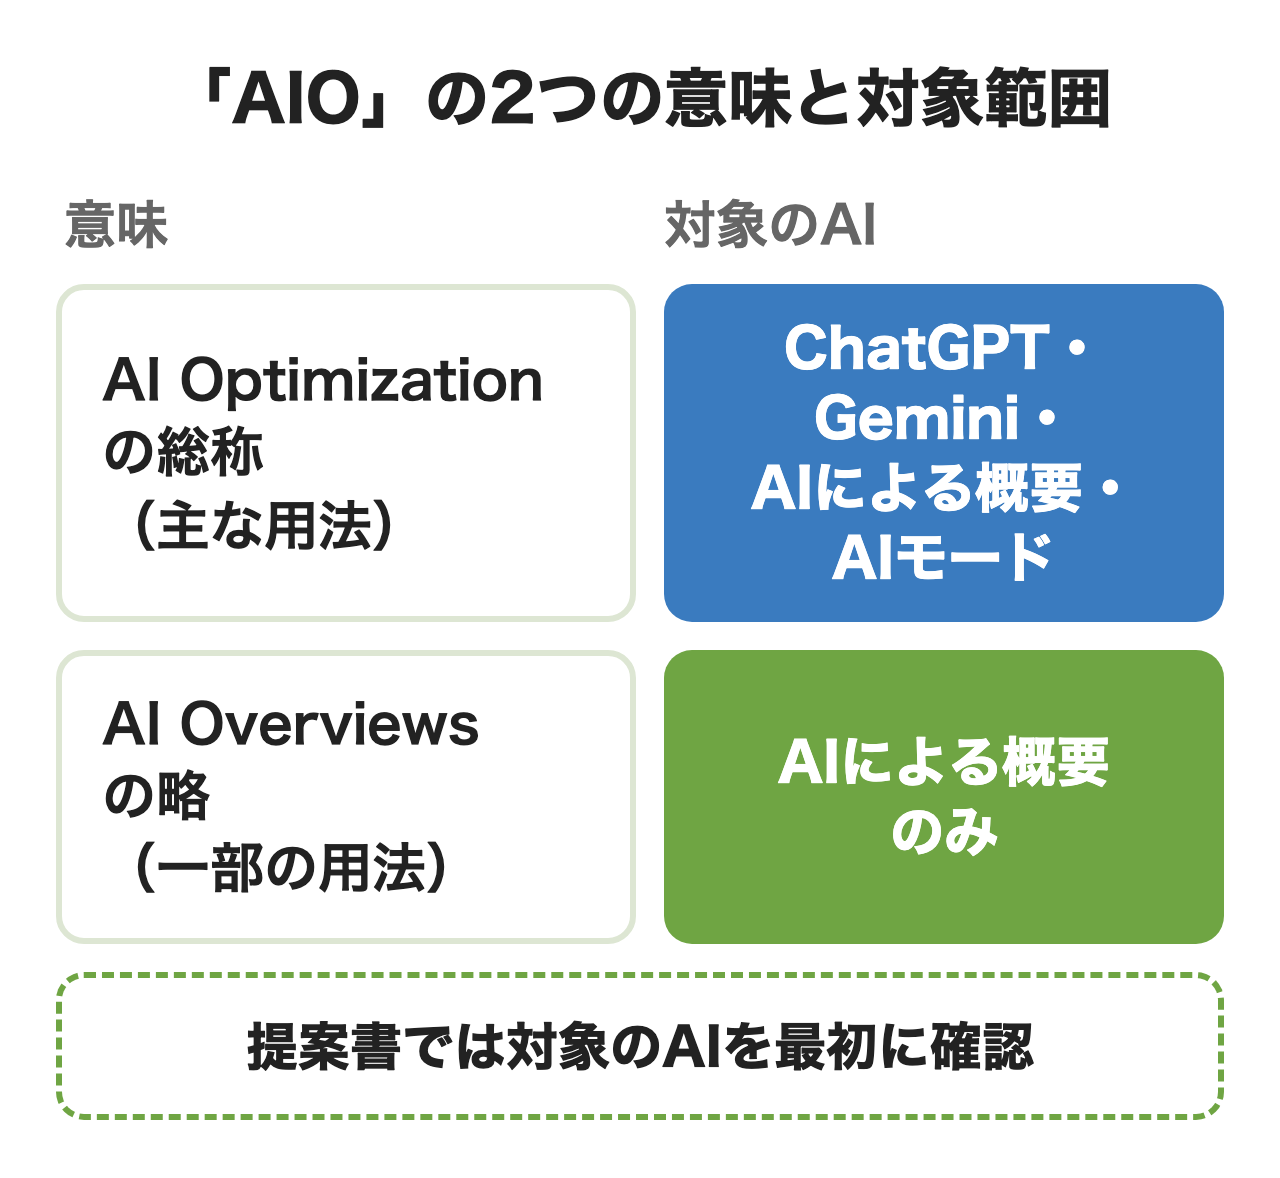
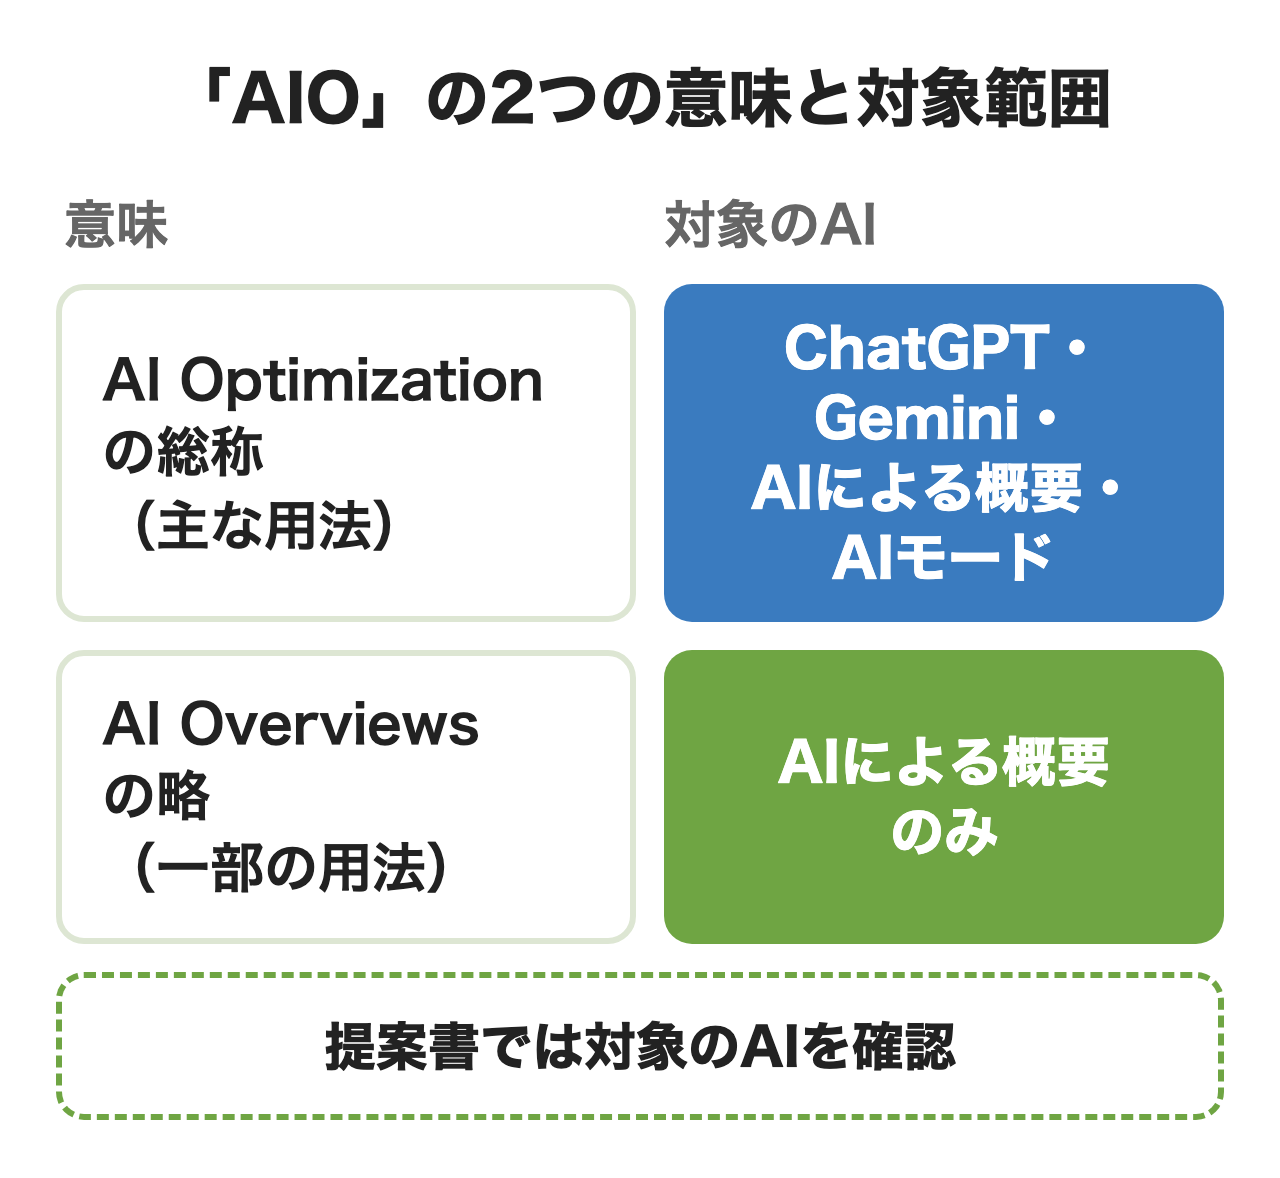
seo: 添削を反映（スキルの読み込みの時点を本文に合わせる・AIO の点線を15字に）

Changed region(s): [[0.1875, 0.8557, 0.8125, 0.9168]]

diff --git a/media/posts/claude-code-skills.md b/media/posts/claude-code-skills.md
@@ -30,7 +30,7 @@ Anthropicは2025年10月16日にAgent Skills（スキル）を発表し、12月1
 
 同じフォルダを規格に対応する他のAIツールで読めるのは、形式がAgent Skillsというオープンな規格に沿っているからです。Claude Codeはこの規格に、呼び出す人の制御・サブエージェントでの実行・コマンド結果の差し込みといった機能を足しています。
 
-<figure class="post-figure"><img src="/media/images/claude-code-skills/01_overview.png" alt="スキルの段階的な読み込みの図。起動時は名前と説明（約100トークン）、会話が説明に合致した時にSKILL.mdの本文、本文で指定した時に参考資料とスクリプトの実行結果" loading="lazy"></figure>
+<figure class="post-figure"><img src="/media/images/claude-code-skills/01_overview.png" alt="スキルの段階的な読み込みの図。起動時は名前と説明（約100トークン）、会話が説明に合致したときにSKILL.mdの本文、作業で必要になったときに参考資料とスクリプトの実行結果" loading="lazy"></figure>
 
 Claude Codeには最初から入っているバンドルスキルもあり、`/code-review`・`/debug`・`/loop`・`/verify` などがあります。
 
